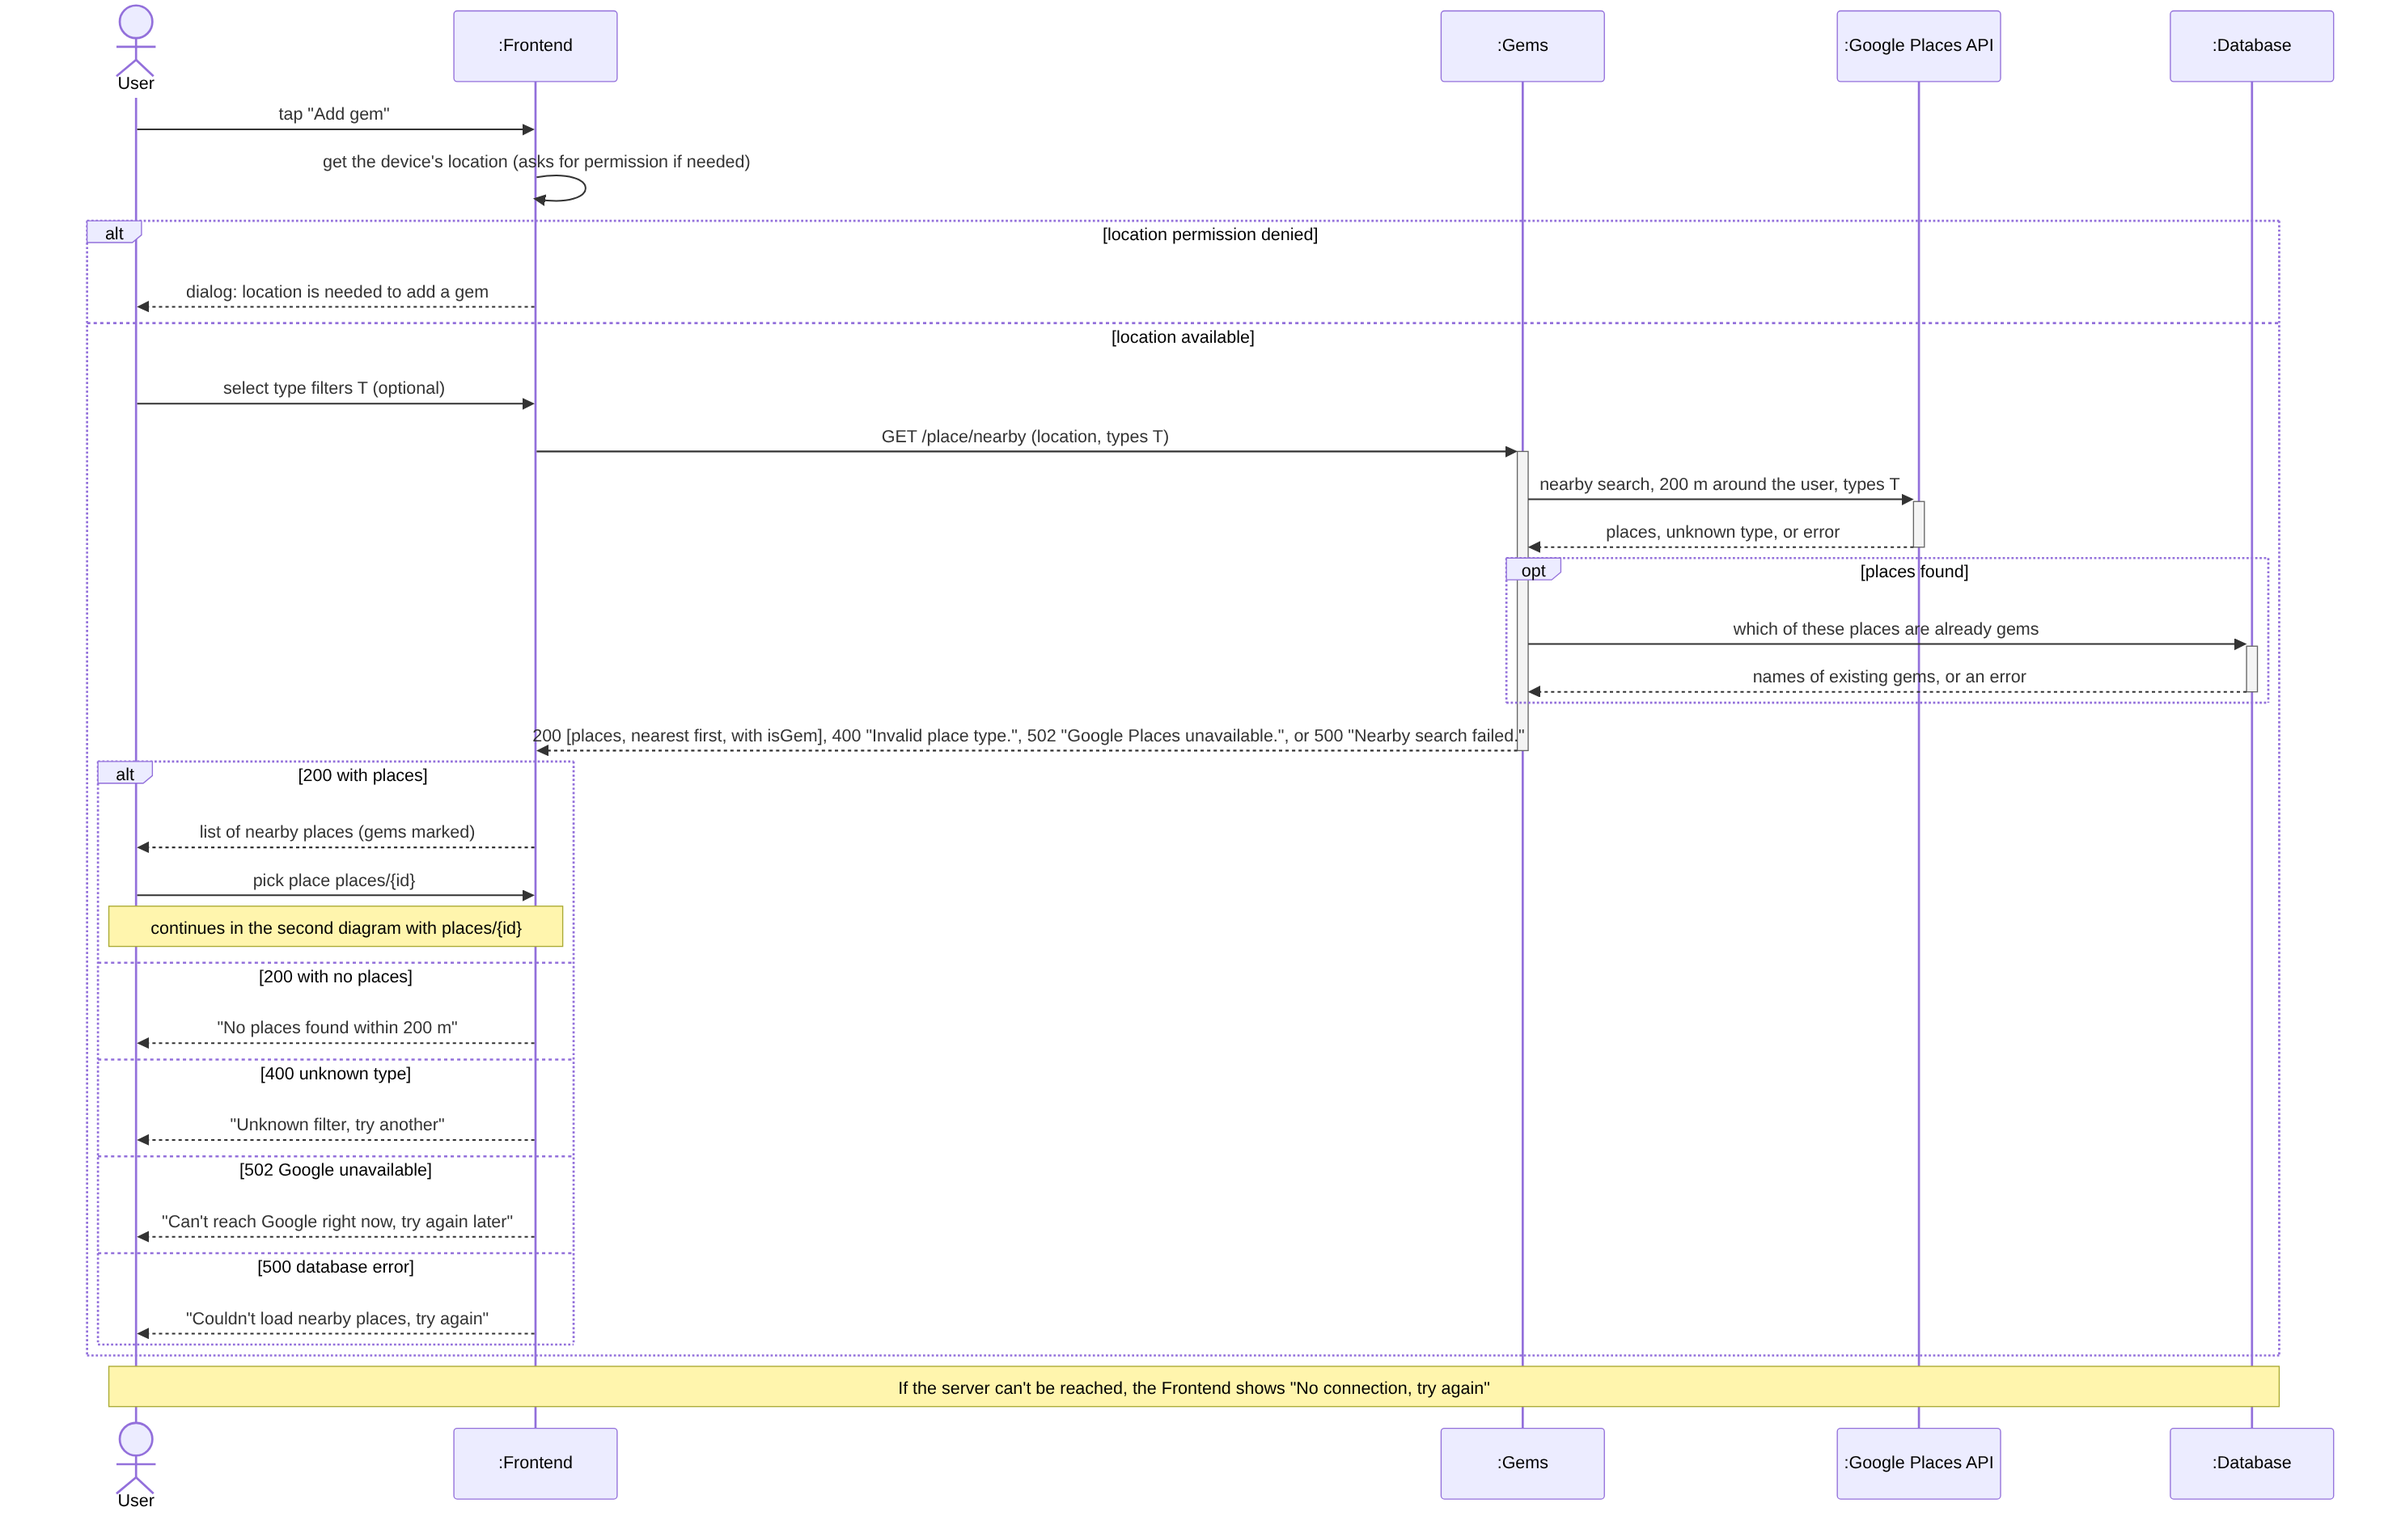
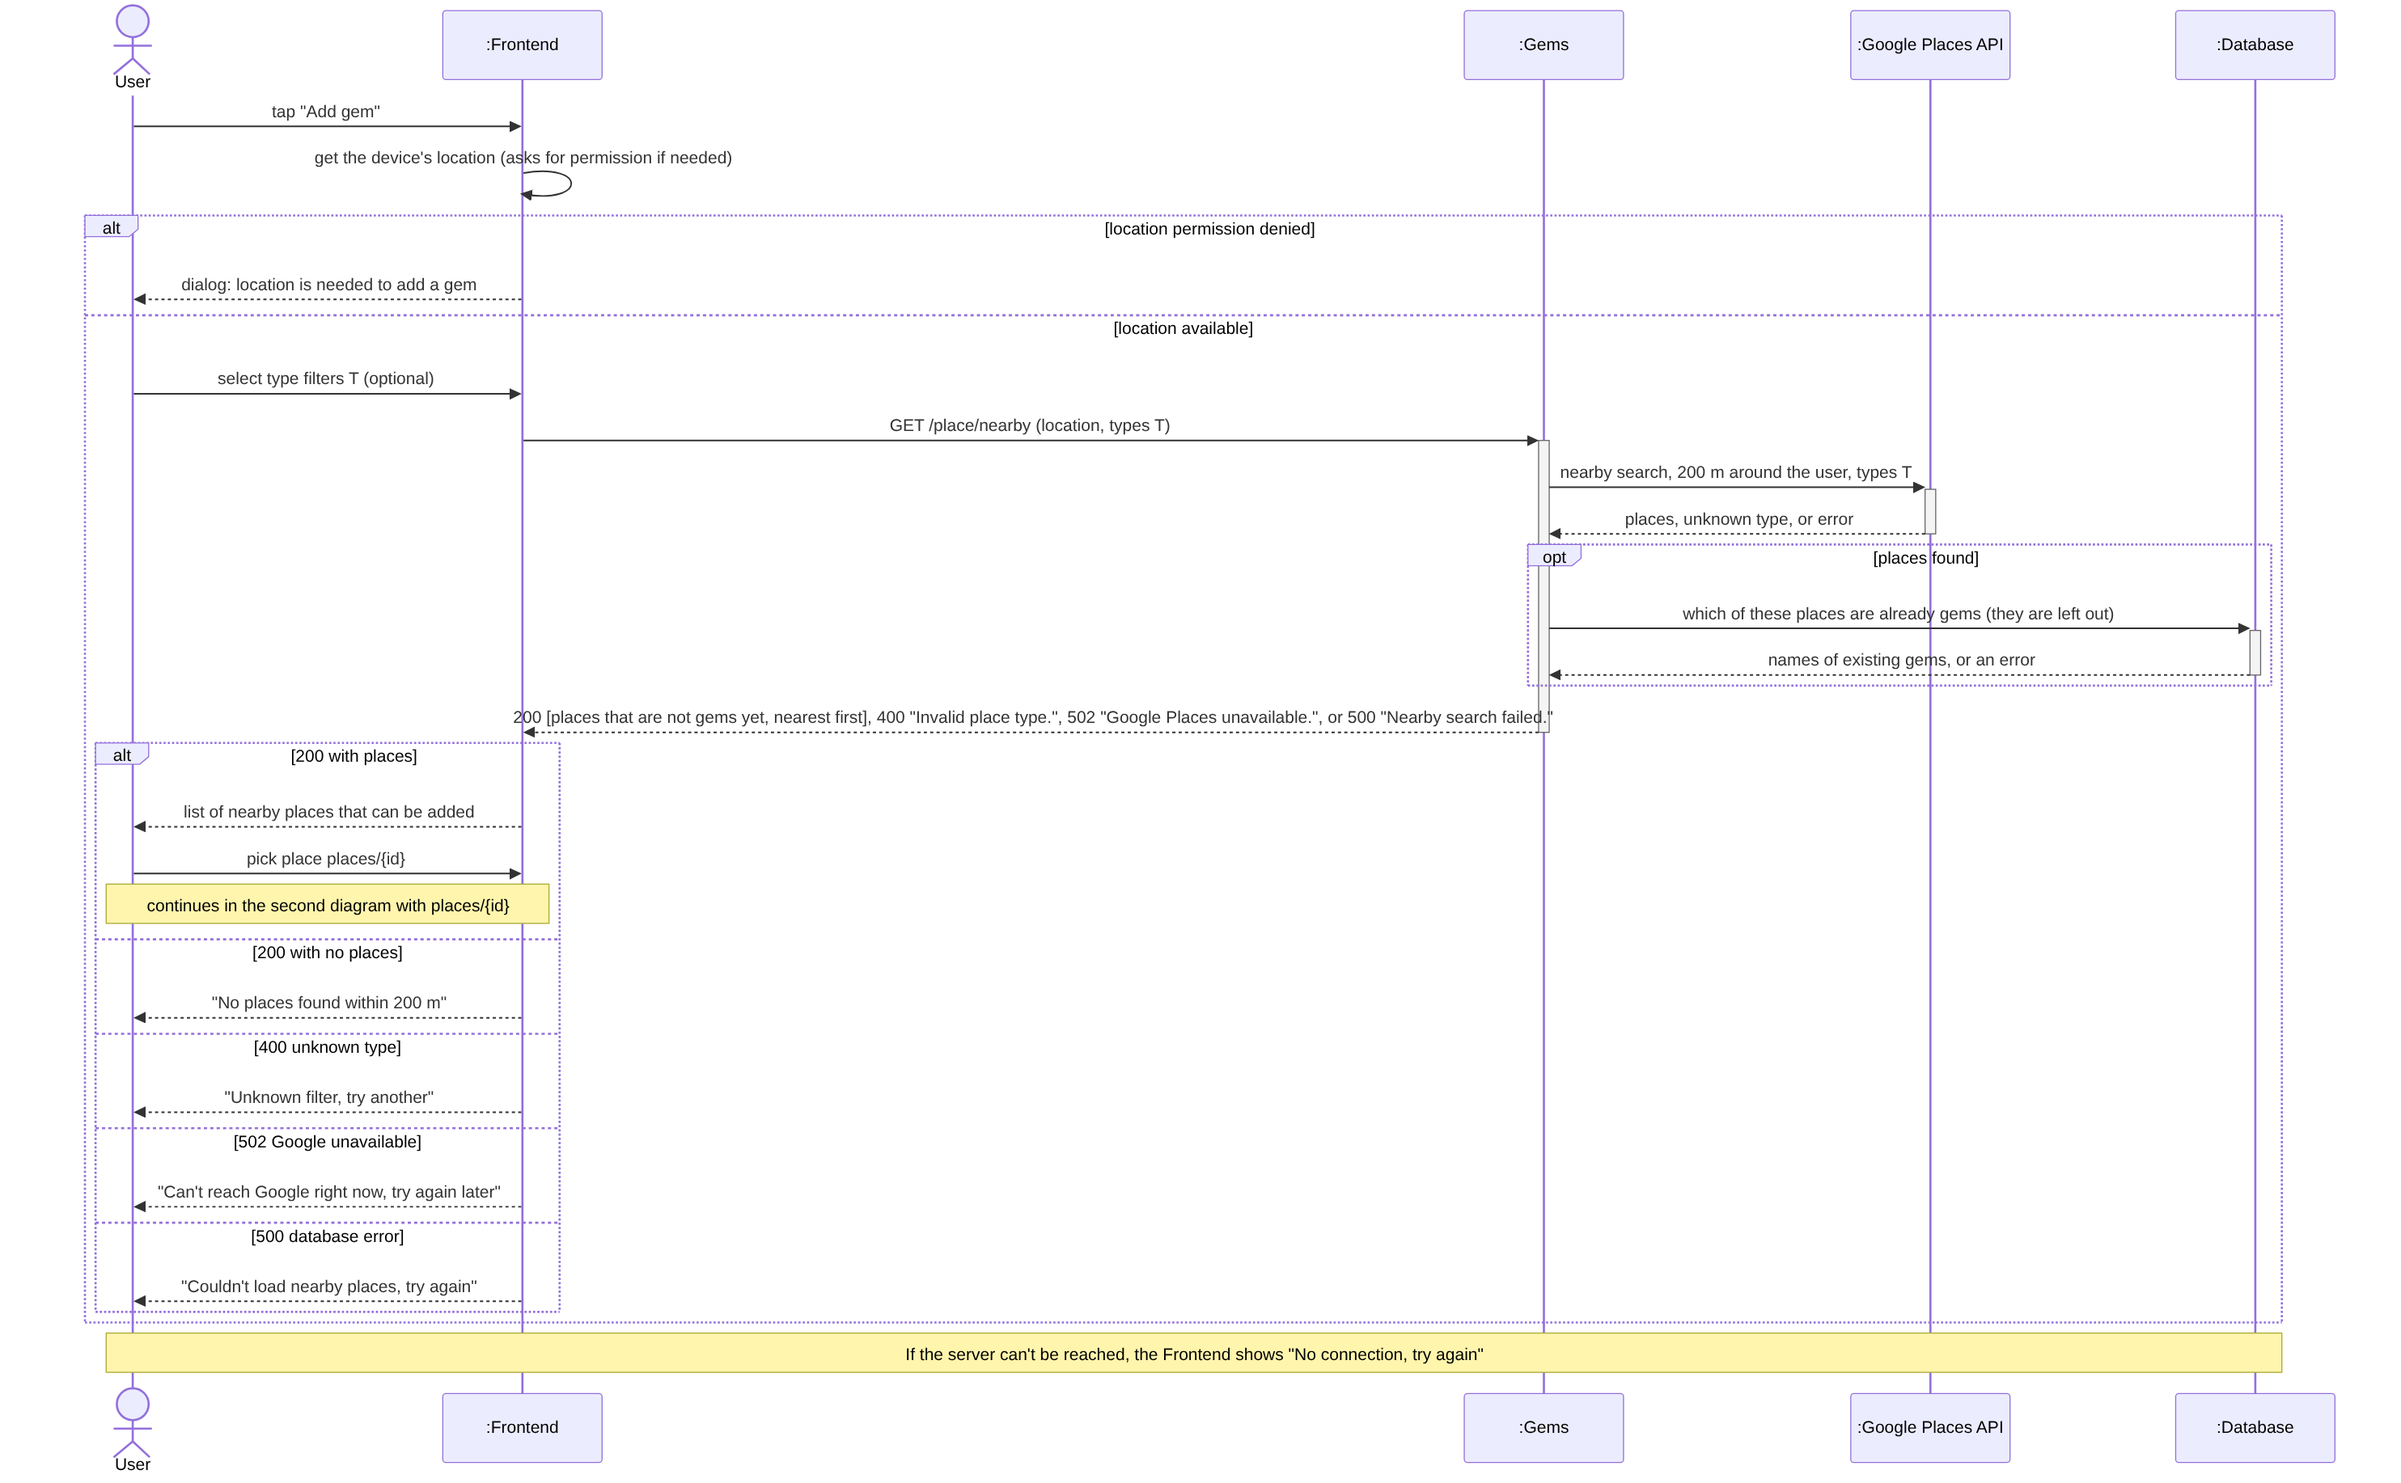
docs: nearby places leave out existing gems

diff --git a/documentation/Requirements_and_Design.md b/documentation/Requirements_and_Design.md
@@ -20,6 +20,7 @@
 | 2026-11-17 | 4.1, 4.2 | Gems: new `GET /gem/:pk/photo` and a `photoUrl` on every gem, so the dashboard can show place photos; `GET /gem/newest` can be limited to gems near the user. Gems store the name of their Google photo. |
 | 2026-11-17 | 3.2, 3.3, 3.4, 3.5 | Following the CP2 feedback: one User actor, since the Guest actor could only sign in; no include or extend relationships in the use case diagram, so *View comments* is its own goal and choosing a place is part of *Add a Gem*; the formal use cases are reordered (*Add a Gem* first), *Make comments* replaces *Mark a Gem as favorite*, and losing the live-update connection in Use Case 4 now shows a message. |
 | 2026-11-17 | 4.2, 4.5, 4.6 | Following the CP2 feedback: 4.2 now says there is one database with five collections; the dependencies diagram has no labels on its arrows; every sequence diagram now branches after a result (one return per call, then `alt` on it), and they follow the new order of 3.5, with *Make comments* in place of *Mark a Gem as favorite*. |
+| 2026-11-18 | 3.4, 3.5, 4.1, 4.6 | `GET /place/nearby` leaves out places that are already gems instead of marking them with `isGem`, so the list when adding a gem only shows places that can be added. |
 
 ---
 
@@ -53,7 +54,7 @@ Excavator is an app designed to let you find niche, high quality locations in yo
 2. **Sign out**: The User signs out, and the app forgets their login.
 
 - Use cases for feature 2: Gems and Gem Score
-3. **Add a Gem**: The User picks a place within 200 m of them from a list of nearby places, optionally filtered by type (e.g. café, park), and adds it as a gem; the gem is then scored and shared with nearby users.
+3. **Add a Gem**: The User picks a place within 200 m of them from a list of nearby places that aren't gems yet, optionally filtered by type (e.g. café, park), and adds it as a gem; the gem is then scored and shared with nearby users.
 4. **Browse Gems on the map**: The User sees the gems in the area shown on the map, highest Gem Score first.
 5. **View a Gem**: The User opens a gem and sees its photo, its details and its Gem Score.
 
@@ -85,7 +86,7 @@ Excavator is an app designed to let you find niche, high quality locations in yo
 1. The User taps "Add gem" on the Discovery screen.
 2. The app gets the User's location, asking for location permission if it hasn't been granted.
 3. The User optionally selects type filters (e.g. café, park).
-4. The app lists the places within 200 m of the User, nearest first, and marks the ones that are already gems.
+4. The app lists the places within 200 m of the User that aren't gems yet, nearest first.
 5. The User picks a place and confirms adding it.
 6. The app shows the new gem, with its Gem Score, on the map.
 7. Other users with that area open see the new gem appear without refreshing.
@@ -250,8 +251,8 @@ Excavator is an app designed to let you find niche, high quality locations in yo
             - **Purpose**: Reads and adds the comments of the gem whose place ID is `pk`. A new comment records the signed-in user and their name. The body is trimmed and must then be 1–1000 characters with no control characters. Both return 400 if `pk` is not a valid place ID and 404 if no gem has it; posting also returns 400 for an invalid body and 401 if not signed in.
         8. `PUT /gem/:pk/rating { stars }` → `{ stars, gem }`; `GET /gem/:pk/rating` → `{ stars }` (both require login)
             - **Purpose**: Sets the signed-in user's 1–5 star rating of the gem, returning the gem with its new rating totals and Gem Score; or reads their rating. Both return 400 if `pk` is not a valid place ID, 401 if not signed in, and 404 if no gem has that place ID. `PUT` also returns 400 if `stars` is not a whole number from 1 to 5; `GET` returns 404 if the user hasn't rated the gem.
-        9. `GET /place/nearby?lat&lng[&type=cafe,park]` → up to 20 places within 200 m, nearest first, each with `isGem`
-            - **Purpose**: Lets the user pick a place that isn't labelled on the map when adding a gem; the app then sends its `name` to `POST /gem`. `type` optionally limits the list to one or more Google Places types, comma-separated (`type=cafe,park`) or repeated (`type=cafe&type=park`), so the app can send all the filters the user selected; a place matching any of them is listed. Returns 400 if the location is invalid, or a type is empty, malformed or unknown to Google, or there are more than 50, and 502 if Google Places is unavailable.
+        9. `GET /place/nearby?lat&lng[&type=cafe,park]` → up to 20 places within 200 m that are not gems yet, nearest first
+            - **Purpose**: Lets the user pick a place that isn't labelled on the map when adding a gem. Places that are already gems are left out, since they can't be added again; the app then sends its `name` to `POST /gem`. `type` optionally limits the list to one or more Google Places types, comma-separated (`type=cafe,park`) or repeated (`type=cafe&type=park`), so the app can send all the filters the user selected; a place matching any of them is listed. Returns 400 if the location is invalid, or a type is empty, malformed or unknown to Google, or there are more than 50, and 502 if Google Places is unavailable.
         10. `boolean hasGem(String name)`
             - **Purpose**: Used by Favorites and by comments and ratings to check a gem exists before acting on it.
         11. `List<Gem> getGems(List<String> names)`
